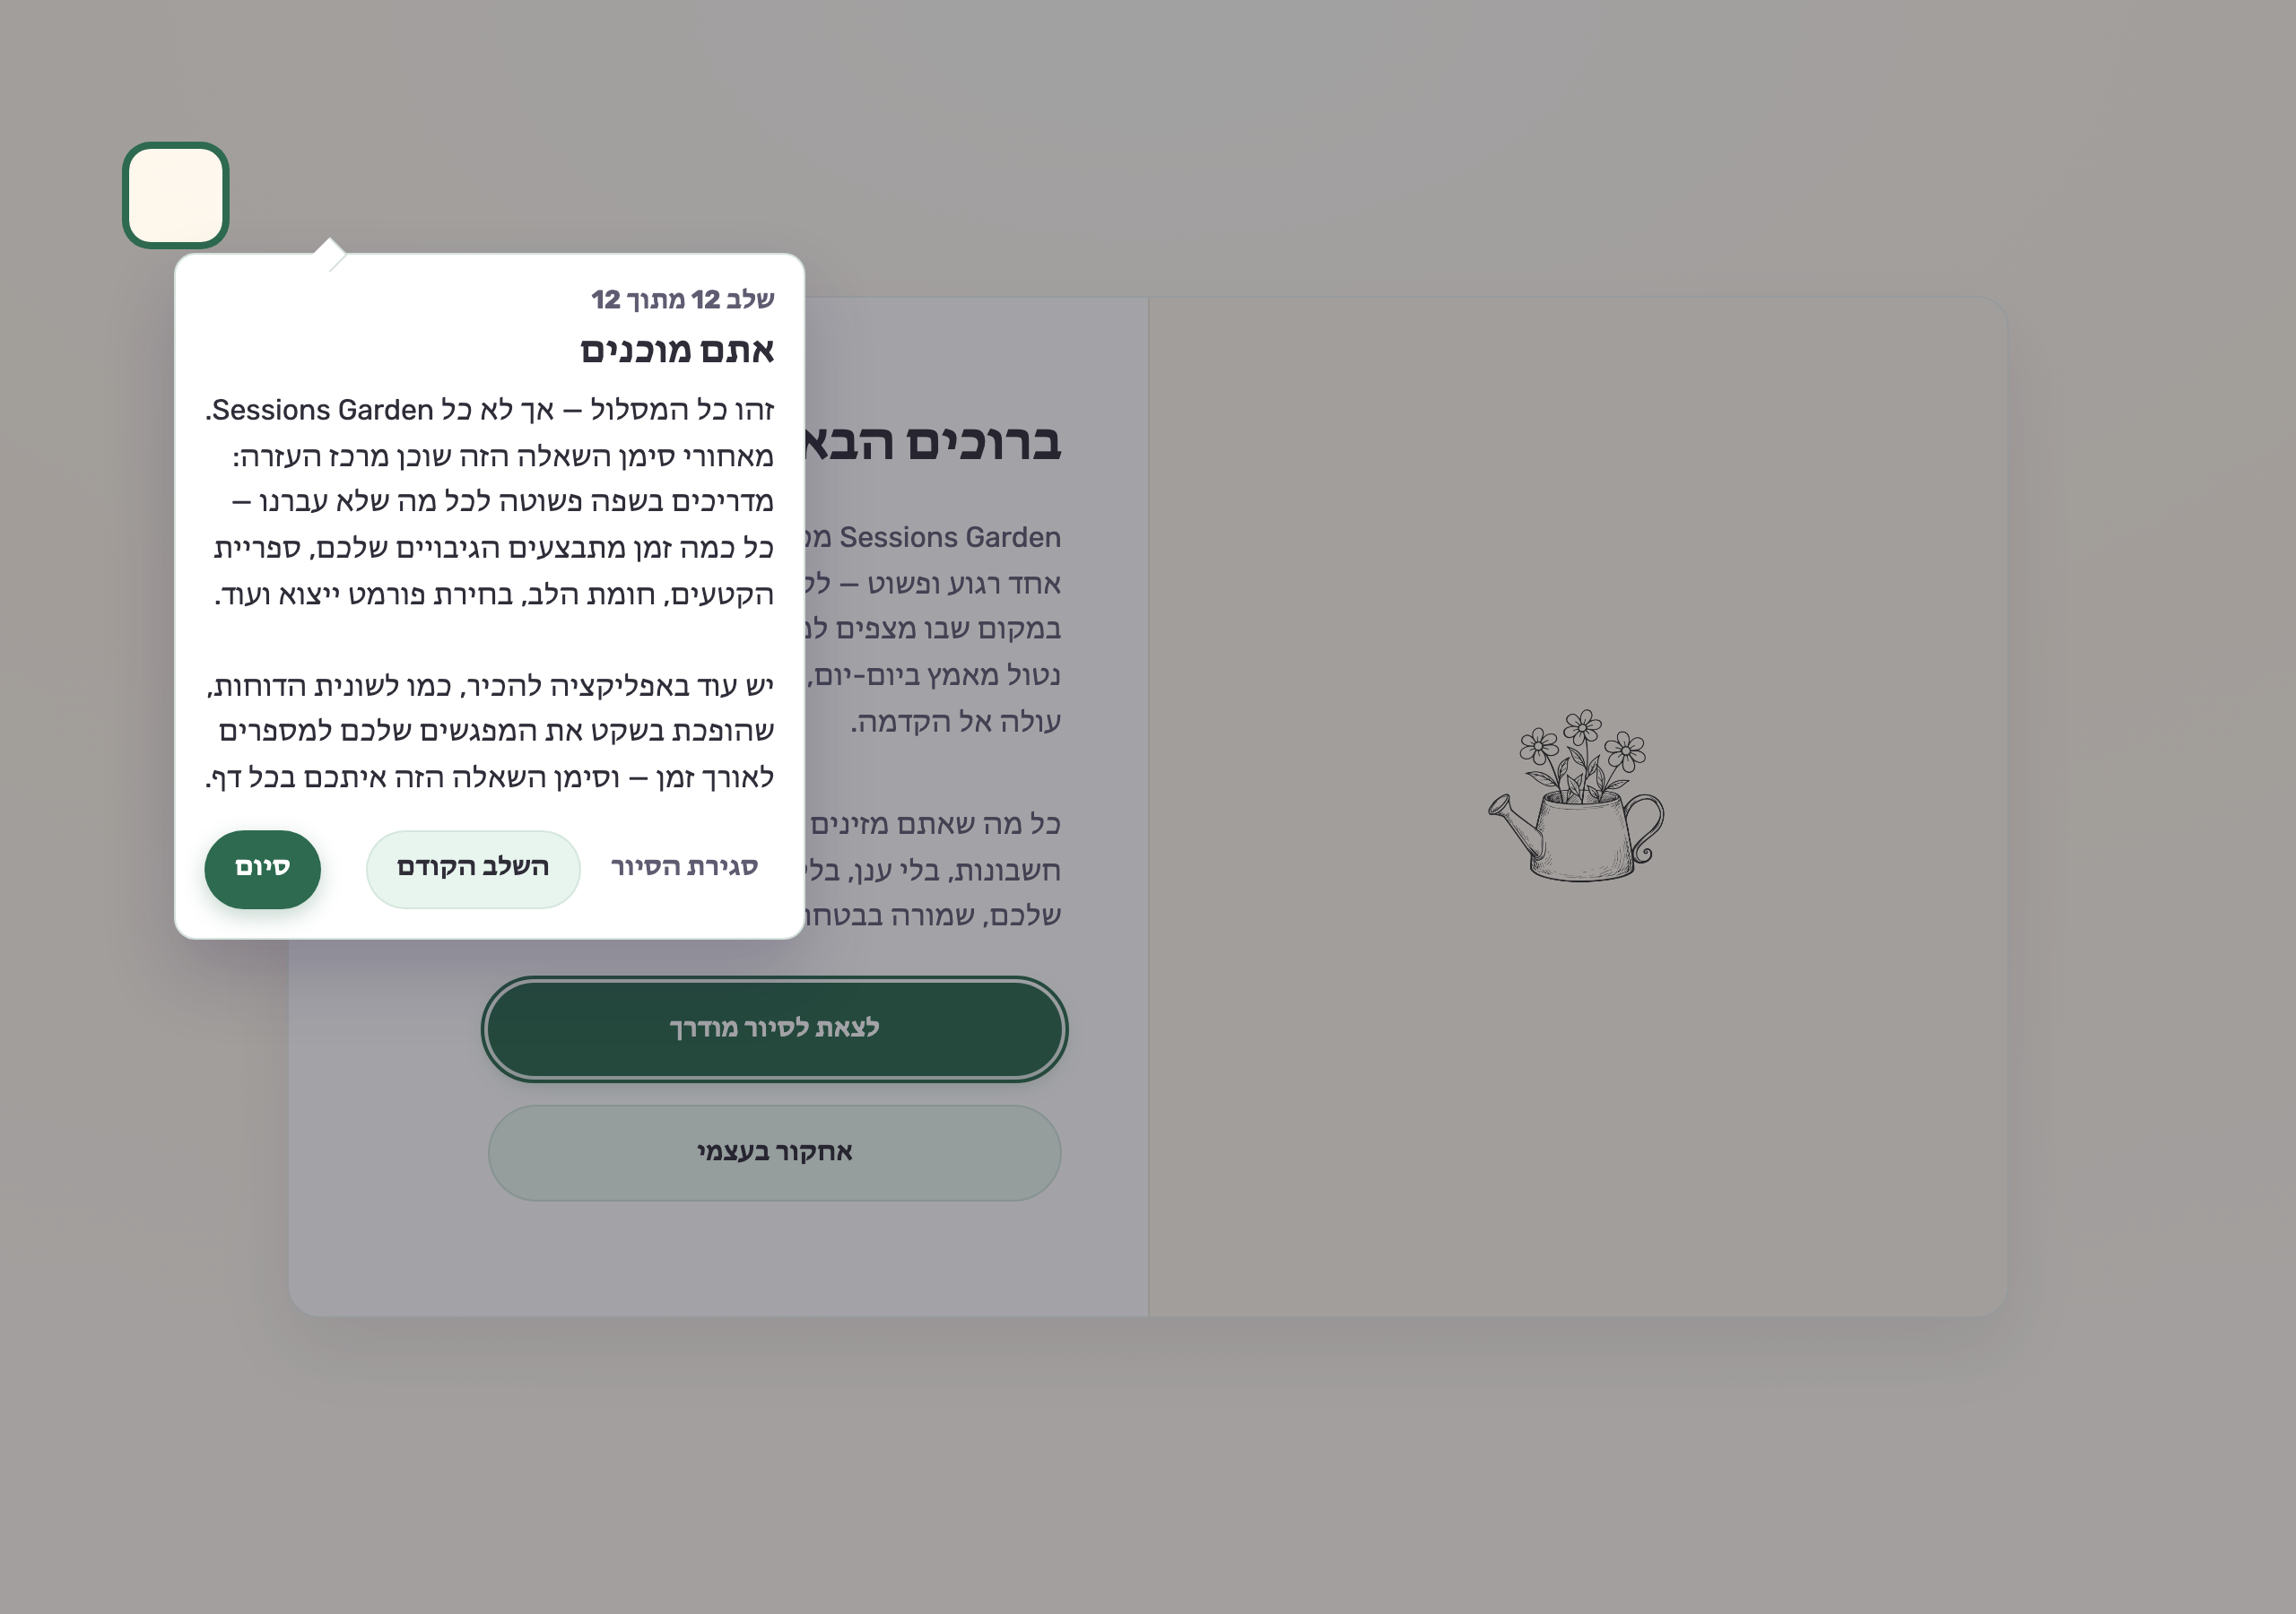
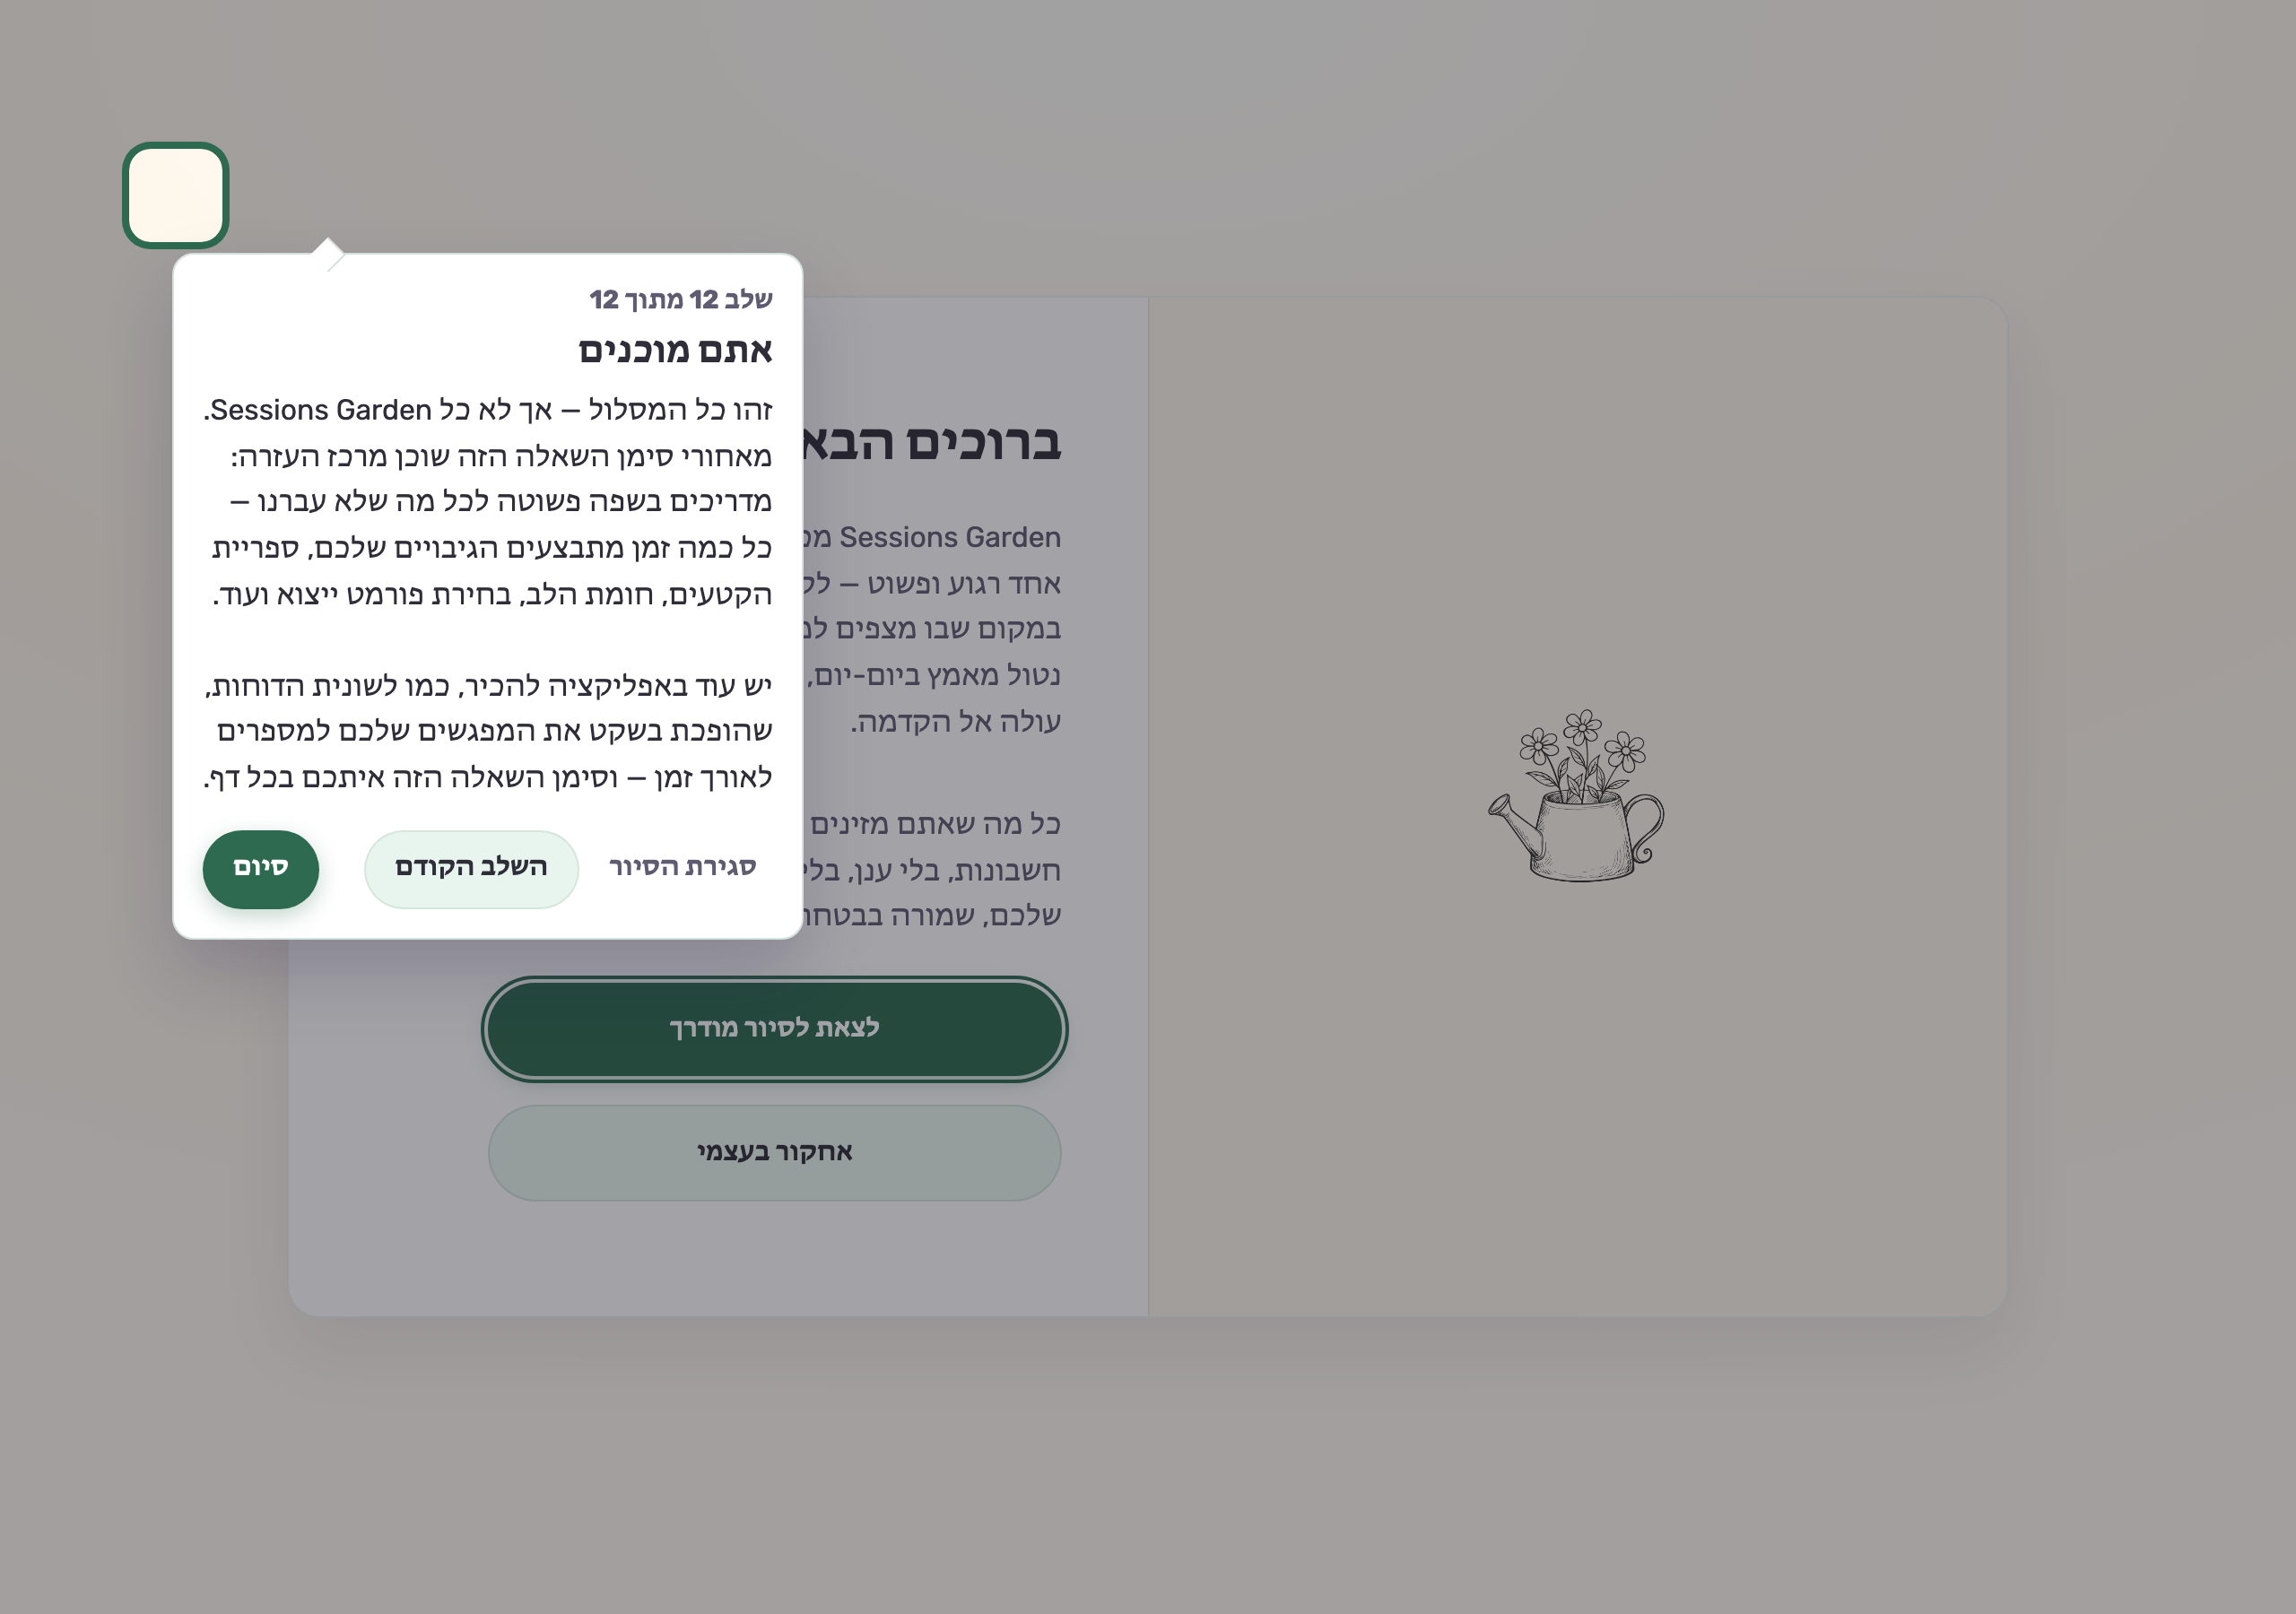
fix(42.1-10): mirror help-center collapsed chevron under RTL (Ben UAT)
- Collapsed disclosure chevron pointed right (into the Hebrew text) under
  dir=rtl; add [dir=rtl] rotate(180deg) override so it points LEFT (away from
  text). Applies to both the card chevron and the rail in-place expander.
- Expanded state unchanged (is-open/is-expanded rules win on specificity and
  keep rotate(90deg) → points down) in both LTR and RTL.
- Extend the real-browser render probe with falsifiable computed-transform
  assertions (RTL collapsed mirrored / expanded down; LTR collapsed unchanged /
  expanded down) across Chromium + WebKit; transition disabled during measure to
  read the target matrix. Re-captured HE help + collapsed-chevron screenshots.

diff --git a/.planning/phases/42.1-help-onboarding-translation/render-evidence/render-verify-he.js b/.planning/phases/42.1-help-onboarding-translation/render-evidence/render-verify-he.js
@@ -213,6 +213,79 @@ async function verifyHelp(engine, page, base, screenshot) {
   }
 }
 
+// Ben UAT (42.1-10 Task 3): under dir=rtl the COLLAPSED help-card chevron must be
+// mirrored (point left, away from the Hebrew text); the EXPANDED state must be
+// unchanged (point down), and the LTR states must be untouched. Falsifiable
+// computed-transform assertions on a real card in both engines. Re-navigates for
+// a clean, default-collapsed DOM (verifyHelp force-opens cards + mutates chrome).
+async function verifyChevron(engine, page, base, screenshot) {
+  await page.goto(base + "/help.html", { waitUntil: "networkidle" });
+  await page.waitForSelector("#helpCards .help-card .chev", { timeout: 15000 });
+
+  const chev = await page.evaluate(() => {
+    function parseMatrix(t) {
+      if (!t || t === "none") return null;
+      const m = t.match(/matrix\(([^)]+)\)/);
+      return m ? m[1].split(",").map((s) => parseFloat(s.trim())) : null;
+    }
+    const card = Array.from(document.querySelectorAll("#helpCards .help-card"))
+      .find((c) => c.querySelector(".chev"));
+    if (!card) return { found: false };
+    const chevEl = card.querySelector(".chev");
+    // Kill the .18s transform transition: a synchronous class toggle + immediate
+    // getComputedStyle otherwise reads the MID-TRANSITION matrix, not the target.
+    chevEl.style.transition = "none";
+    const chevOf = () => {
+      void chevEl.offsetWidth; // force reflow so the target transform resolves
+      return getComputedStyle(chevEl).transform;
+    };
+    // RTL (page is he → dir=rtl): collapsed then expanded
+    card.classList.remove("is-open");
+    const rtlCollapsed = chevOf();
+    card.classList.add("is-open");
+    const rtlExpanded = chevOf();
+    card.classList.remove("is-open");
+    // LTR spot-check: flip <html> dir=ltr transiently, read both states, restore
+    const html = document.documentElement;
+    const prevDir = html.getAttribute("dir");
+    html.setAttribute("dir", "ltr");
+    const ltrCollapsed = chevOf();
+    card.classList.add("is-open");
+    const ltrExpanded = chevOf();
+    card.classList.remove("is-open");
+    html.setAttribute("dir", prevDir);
+    chevEl.style.transition = "";
+    return {
+      found: true, rtlCollapsed, rtlExpanded, ltrCollapsed, ltrExpanded,
+      m: {
+        rc: parseMatrix(rtlCollapsed), re: parseMatrix(rtlExpanded),
+        lc: parseMatrix(ltrCollapsed), le: parseMatrix(ltrExpanded),
+      },
+    };
+  });
+  const approx = (x, v) => x != null && Math.abs(x - v) < 0.01;
+  // RTL collapsed = rotate(180deg) → matrix(-1,0,0,-1,0,0): mirrored, points LEFT
+  check(engine, "help", "RTL collapsed chevron mirrored (rotate180 → points left)",
+    chev.found && chev.m.rc && approx(chev.m.rc[0], -1) && approx(chev.m.rc[3], -1), chev.rtlCollapsed);
+  // RTL expanded = rotate(90deg) → matrix(0,1,-1,0,0,0): points DOWN, unchanged
+  check(engine, "help", "RTL expanded chevron points down (rotate90, unchanged)",
+    chev.found && chev.m.re && approx(chev.m.re[0], 0) && approx(chev.m.re[1], 1), chev.rtlExpanded);
+  // LTR collapsed = no mirror (transform:none, or identity matrix)
+  check(engine, "help", "LTR collapsed chevron unchanged (no mirror)",
+    chev.found && (chev.ltrCollapsed === "none" || (chev.m.lc && approx(chev.m.lc[0], 1) && approx(chev.m.lc[3], 1))), chev.ltrCollapsed);
+  // LTR expanded = rotate(90deg): points down (regression guard)
+  check(engine, "help", "LTR expanded chevron points down (rotate90)",
+    chev.found && chev.m.le && approx(chev.m.le[0], 0) && approx(chev.m.le[1], 1), chev.ltrExpanded);
+
+  if (screenshot) {
+    await page.evaluate(() => {
+      document.querySelectorAll("#helpCards .help-card.is-open").forEach((c) => c.classList.remove("is-open"));
+      window.scrollTo(0, 0);
+    });
+    await page.screenshot({ path: path.join(EVIDENCE, "he-help-collapsed-chevrons.png") });
+  }
+}
+
 async function verifyChangelog(engine, page, base, screenshot) {
   await page.goto(base + "/changelog.html", { waitUntil: "networkidle" });
   await page.waitForSelector("#changelogEntries", { timeout: 15000 });
@@ -260,6 +333,7 @@ async function verifyChangelog(engine, page, base, screenshot) {
     const shoot = engine === "chromium"; // deterministic screenshots from Chromium
     try {
       await verifyHelp(engine, page, base, shoot);
+      await verifyChevron(engine, page, base, shoot);
       await verifyChangelog(engine, page, base, shoot);
     } catch (e) {
       check(engine, "-", "harness ran without throwing", false, e.message);

diff --git a/assets/help.css b/assets/help.css
@@ -290,6 +290,10 @@ body.searching .help-root .spine-group-label { display: none; }
 .help-root .rail-toggle:hover { background: var(--color-surface-hover); color: var(--color-primary); }
 .help-root .rail-toggle svg { transition: transform .18s; }
 .help-root .rail-item.is-expanded .rail-toggle svg { transform: rotate(90deg); }
+/* Same RTL mirror for the rail's in-place expander chevron: collapsed points
+   left (rotate180), expanded still points down (the .is-expanded rule wins on
+   specificity 0,4,1 > 0,3,1). (42.1-10, Ben UAT) */
+[dir="rtl"] .help-root .rail-toggle svg { transform: rotate(180deg); }
 .help-root .rail-sub {
   display: none;
   padding-inline-start: var(--space-md);
@@ -363,6 +367,14 @@ body.searching .help-root .spine-group-label { display: none; }
 }
 .help-root .card-head .chev { color: var(--color-text-muted); transition: transform .18s; flex: none; }
 .help-root .help-card.is-open .card-head .chev { transform: rotate(90deg); }
+/* RTL: the COLLAPSED disclosure chevron must point toward the inline-start edge
+   (left), AWAY from the Hebrew text. The LTR glyph is a right-pointing ">" (path
+   "M4 2l4 4-4 4"), so under an RTL page it would point INTO the text. Mirror it
+   with rotate(180deg) → points left. The .is-open rule above still wins on
+   specificity (0,5,0 > 0,4,0) and rotates to 90deg (pointing DOWN) when expanded,
+   so the expanded state is identical in LTR and RTL; both states are pure
+   rotations, so the open→closed transition stays smooth. (42.1-10, Ben UAT) */
+[dir="rtl"] .help-root .card-head .chev { transform: rotate(180deg); }
 .help-root .card-body {
   display: none;
   padding: var(--space-xs) var(--space-lg) var(--space-lg);